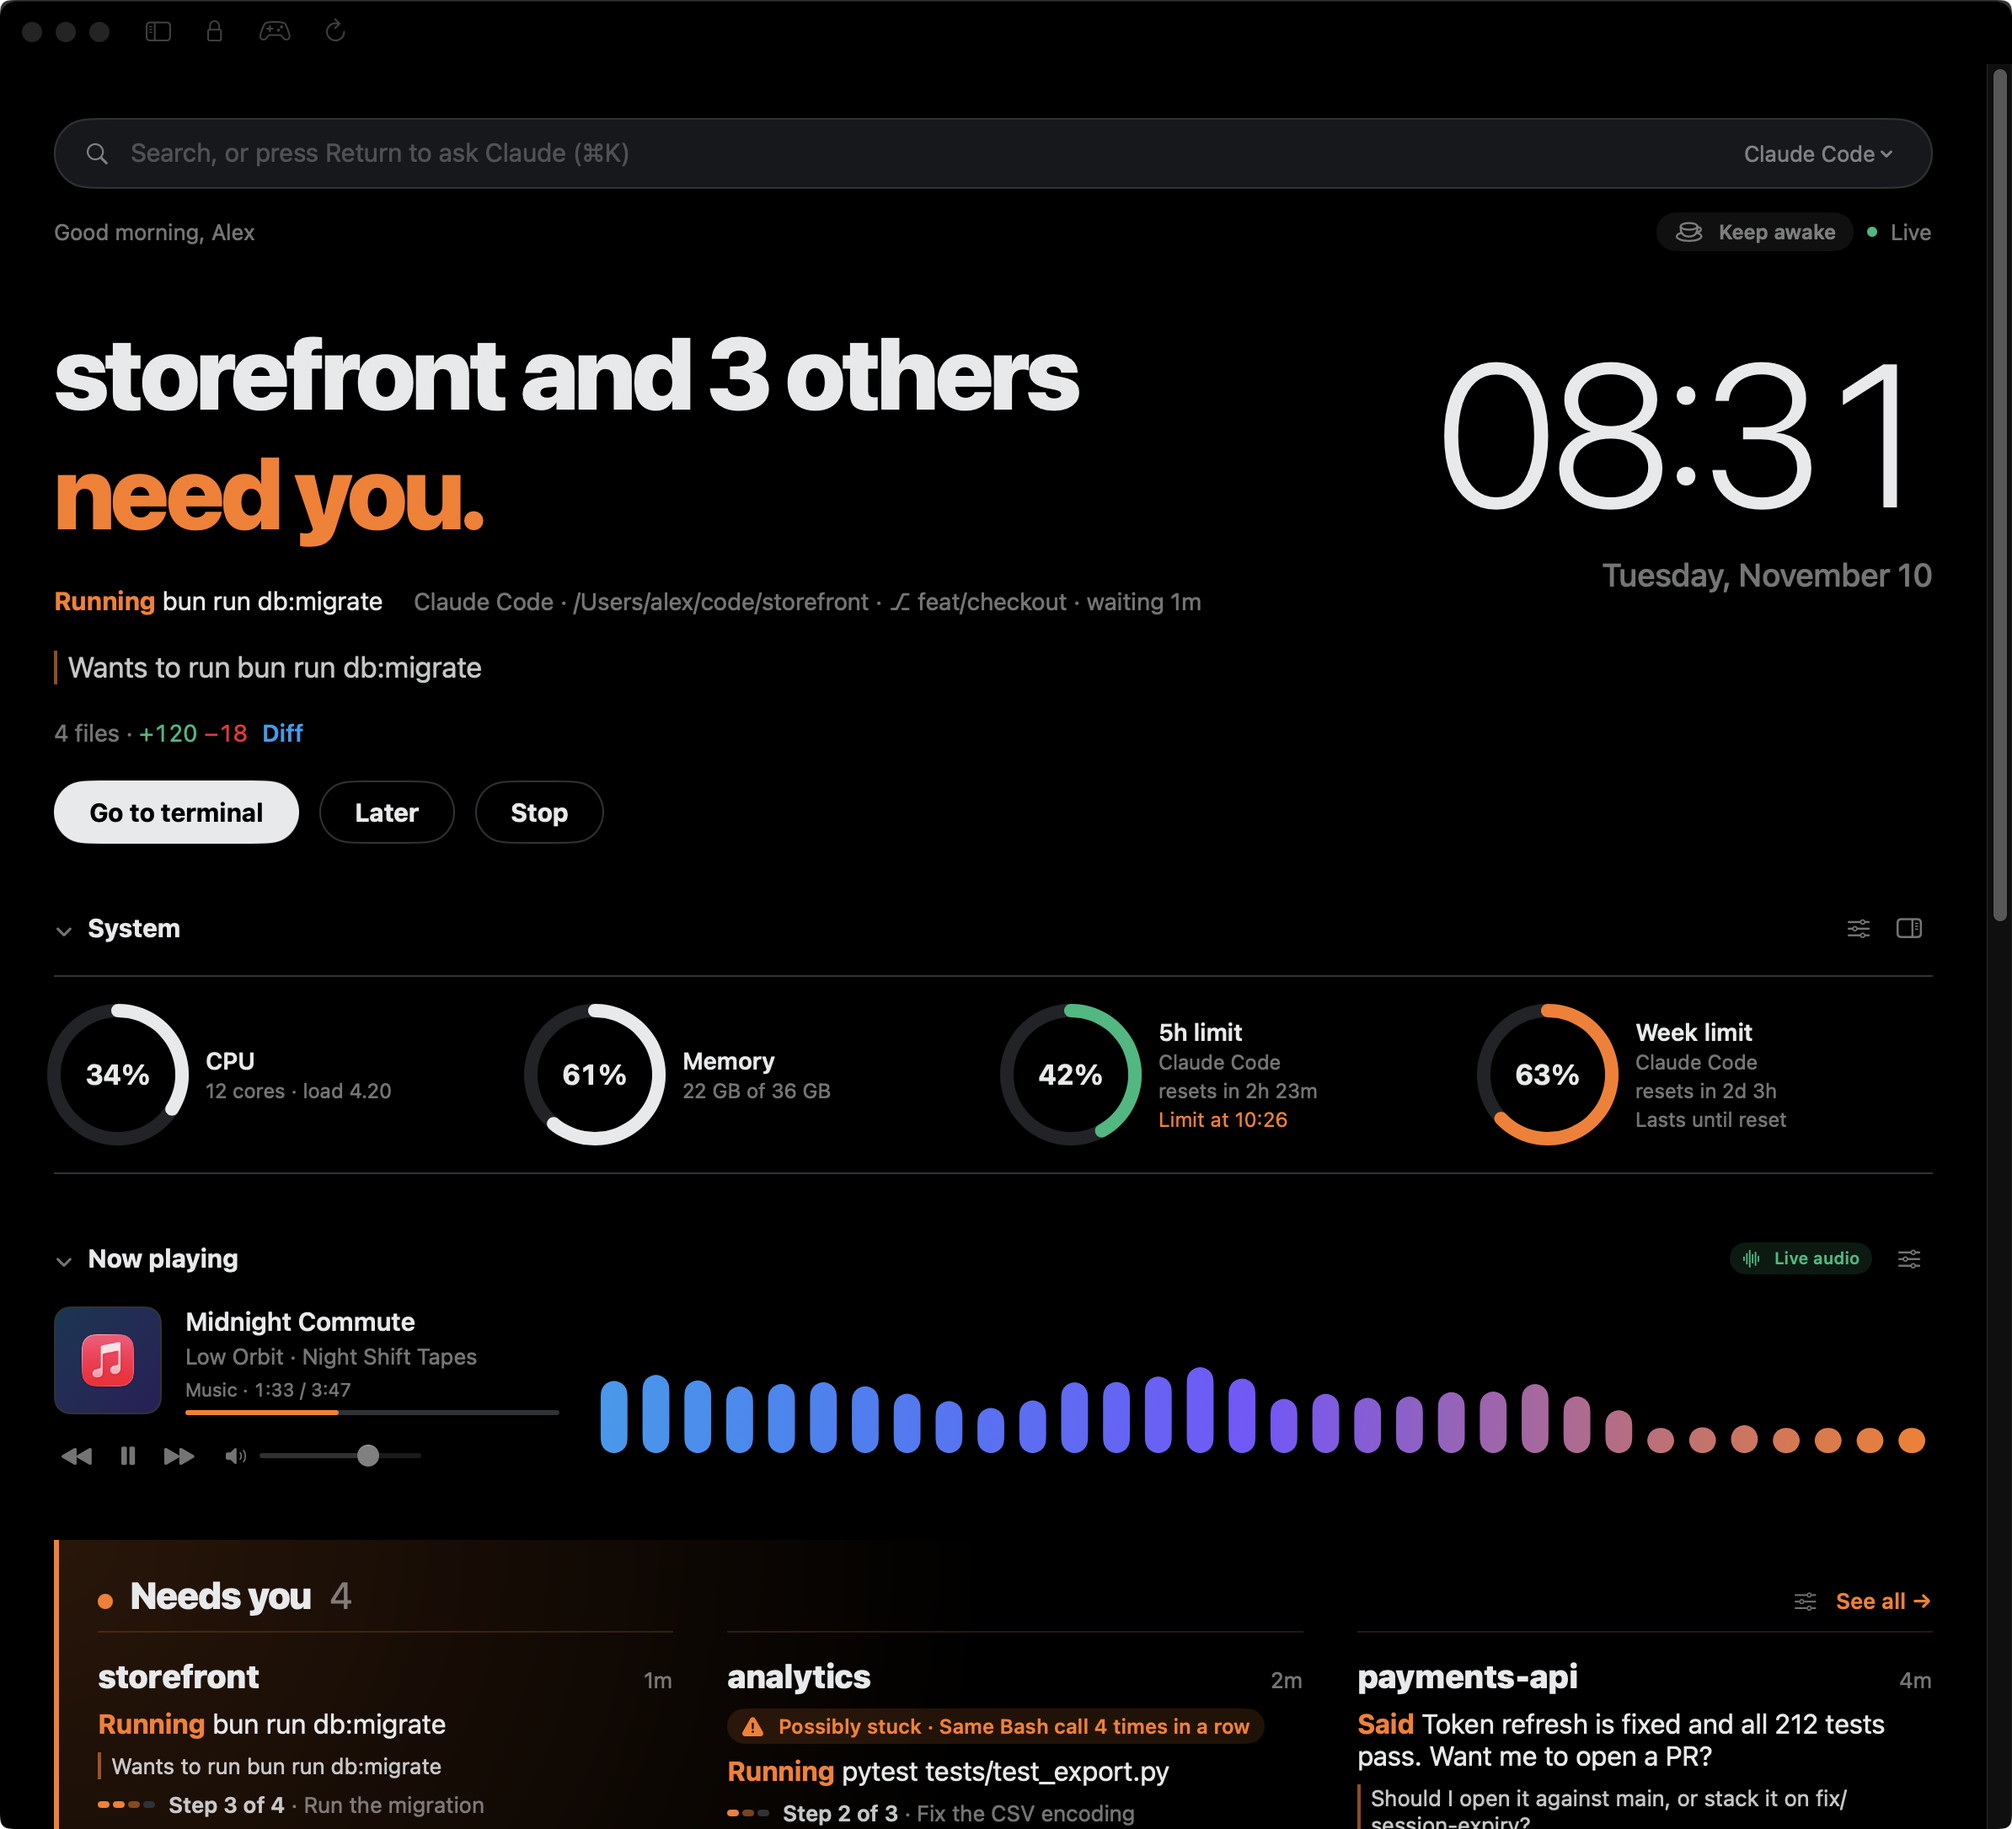
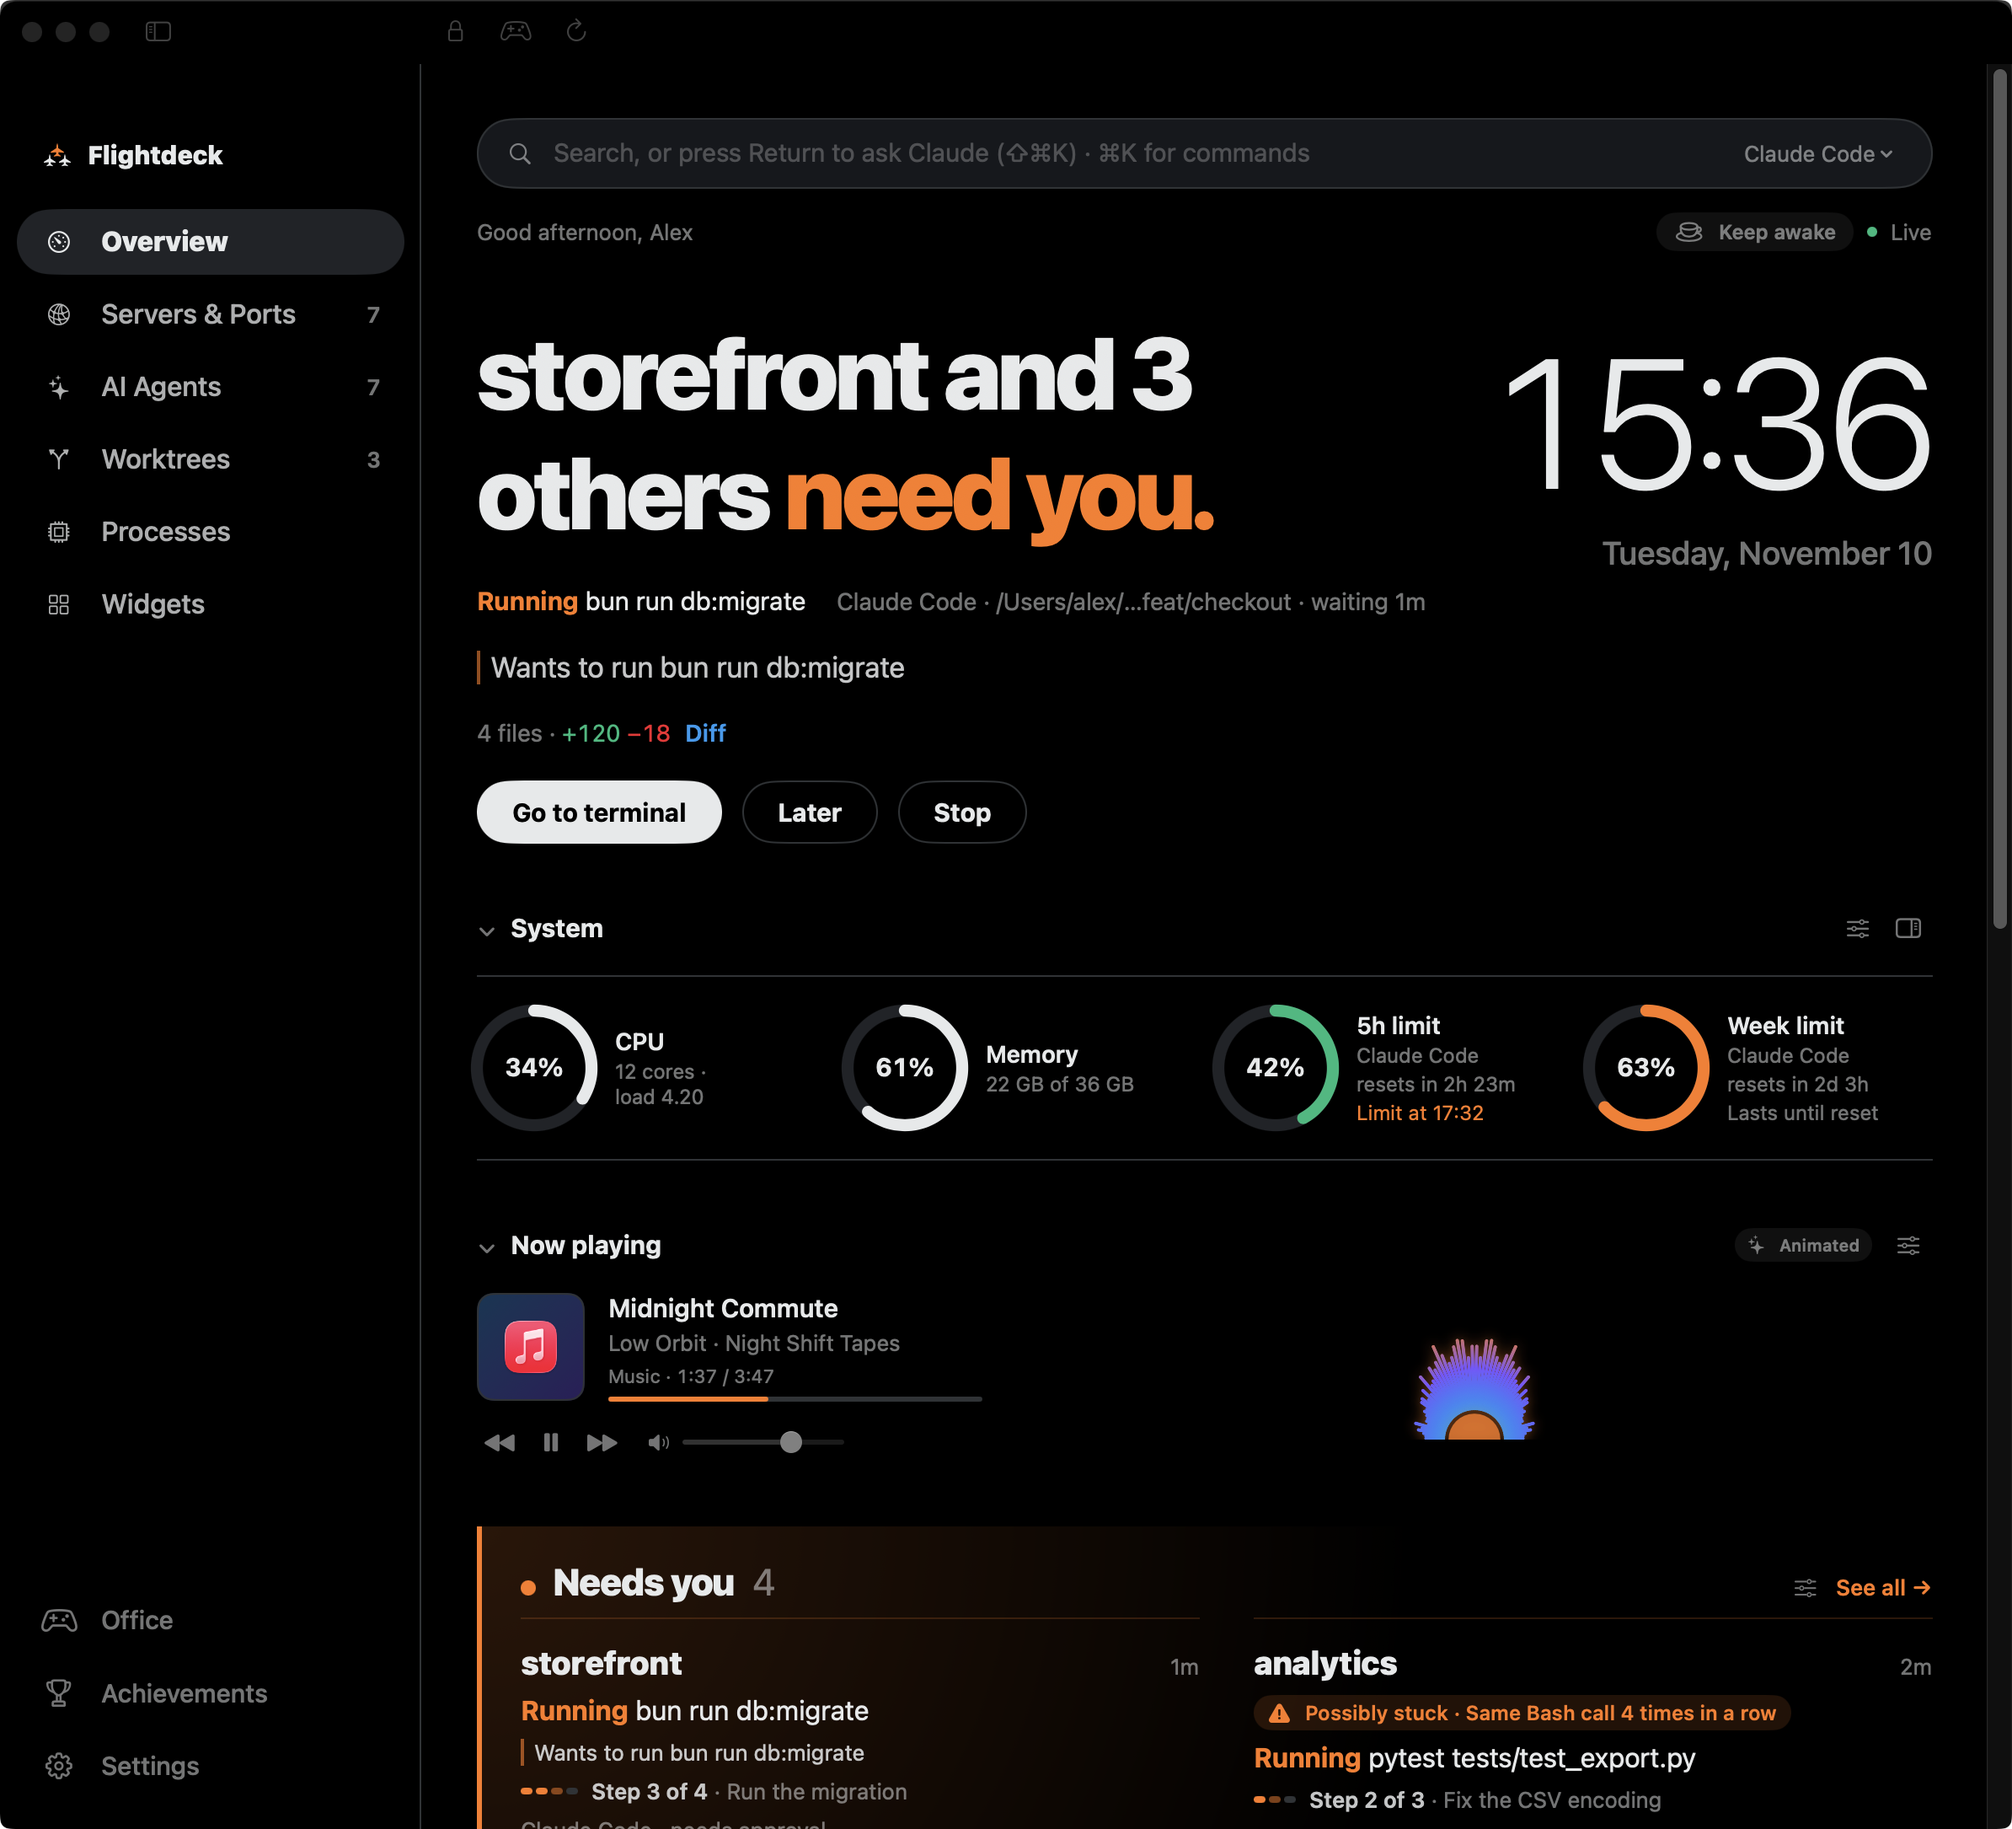
Show the ⇧⌘K and ⌘K shortcuts and add achievements and night office to the site
- Overview search hint and terminal footer name ⌘K for commands and ⇧⌘K for Ask Claude
- Site and README get the Achievements page and the office after dark, and a fresh overview shot
- FLIGHTDECK_PAGE=settings opens the demo on Settings

diff --git a/site/app/page.tsx b/site/app/page.tsx
@@ -68,6 +68,18 @@ const FEATURE_ROWS = [
     image: { src: "/screenshots/office.png", alt: "Office party with a dance floor, lasers, speaker stacks and the jukebox pads", width: 1194, height: 760 },
   },
   {
+    label: "After dark",
+    title: "The office keeps your hours.",
+    body: "Windows along the outer walls follow the time of day, from daylight through sunset to a starry night. After dark the rooms dim and every desk with an agent keeps its lamp on. Type a city in Settings and the windows show its rain, snow or clouds.",
+    image: { src: "/screenshots/office-night.png", alt: "The office at night with dimmed rooms, starry windows and desk lamps on", width: 1194, height: 1085 },
+  },
+  {
+    label: "Achievements",
+    title: "Unlock 59 achievements.",
+    body: "Agent hours, agents working at once, streaks, night-owl sessions, cleaned-up worktrees, tracks heard, office raves and more. The Achievements page lists every one with your progress, and each unlock gets a card and a notification.",
+    image: { src: "/screenshots/achievements.png", alt: "Achievements page with unlocked gold badges and progress on locked ones", width: 1194, height: 1085 },
+  },
+  {
     label: "Now playing",
     title: "Music in your theme.",
     body: "What's playing in any player, with a visualiser in your theme's colours. The adjust menu switches between Minimal and Expanded, ten visualiser styles and six palettes, plus an optional background that pulses to the music in ten styles, colours from the cover art and accents that flash on the beat. A mini player sits in the menu bar panel. Live audio levels are opt-in; otherwise the bars follow play and pause.",

diff --git a/Sources/FlightdeckApp/Views/Dashboard/Overview/OverviewHeader.swift b/Sources/FlightdeckApp/Views/Dashboard/Overview/OverviewHeader.swift
@@ -12,7 +12,7 @@ struct OverviewHeader: View {
         VStack(alignment: .leading, spacing: 14) {
             HStack(spacing: 12) {
                 Image(systemName: "magnifyingglass").foregroundStyle(theme.muted)
-                TextField("Search, or press Return to ask Claude (⌘K)", text: $searchText)
+                TextField("Search, or press Return to ask Claude (⇧⌘K) · ⌘K for commands", text: $searchText)
                     .textFieldStyle(.plain)
                     .font(.system(size: 15))
                     .onSubmit(askClaude)

diff --git a/Sources/FlightdeckApp/Views/Dashboard/Concepts/ConceptMastheads.swift b/Sources/FlightdeckApp/Views/Dashboard/Concepts/ConceptMastheads.swift
@@ -26,7 +26,8 @@ struct LayoutFooter: View {
     var body: some View {
         if layout == .terminal {
             HStack(spacing: 18) {
-                hint("⌘K", "ask claude")
+                hint("⌘K", "commands")
+                hint("⇧⌘K", "ask claude")
                 hint("⌘,", "settings")
                 hint("click", "open")
                 Spacer()

diff --git a/docs/architecture.md b/docs/architecture.md
@@ -24,7 +24,7 @@ One Swift package with three targets.
 
 - **Store/** — `MonitorEngine` owns the collectors and blocks; `MonitorStore` (`@Observable`, main actor) polls it off the main thread: system every 2s, ports and agents every 5s, usage every 60s, widgets every 5s, project cache every 30s.
 - **Settings/** — `AppSettings`, persisted to UserDefaults.
-- **Ask/** — `ClaudeAsker` answers the dashboard's questions: `AskContext` writes a `CLAUDE.md` guide and a live `state.md` to `~/Library/Application Support/Flightdeck/Ask/`, then it runs `claude -p` there with only Read, Grep and Glob allowed (`--continue` for follow-ups). `AskPalette` shows the answer over the dashboard window; Return in the overview search bar or Edit › Ask Claude… (⌘K) opens it.
+- **Ask/** — `ClaudeAsker` answers the dashboard's questions: `AskContext` writes a `CLAUDE.md` guide and a live `state.md` to `~/Library/Application Support/Flightdeck/Ask/`, then it runs `claude -p` there with only Read, Grep and Glob allowed (`--continue` for follow-ups). `AskPalette` shows the answer over the dashboard window; Return in the overview search bar, the command palette's Ask row or Edit › Ask Claude… (⇧⌘K) opens it. `Views/Palette/` holds the ⌘K command palette.
 - **Integrations/** — `StatusPublisher` writes `StatusReport` (MonitorCore **Status/**) to `status.json` after each agents and ports poll, only when it changed (system readings and agents' last activity aside) or once a minute, otherwise touching it so readers can spot a stopped app; it also fires the optional SketchyBar event. `CommandLineTool` links the bundled command into the user's PATH.
 - **Updates/** — `AppUpdater` wraps Sparkle's `SPUStandardUpdaterController` and publishes whether a check can start. It only starts inside the bundled app, which carries `SUFeedURL` and `SUPublicEDKey`; Sparkle keeps the automatic-check setting in its own user defaults. The release workflow publishes the signed appcast to the `update-feed` release.
 - **Views/** — `MenuBar/` (label and the 380pt popover), `Dashboard/` (`NavigationSplitView` with Overview, Servers & Ports, AI Agents, Processes, Widgets; every page is a `PageCanvas` of sections on a `SectionGrid`, arranged by the current theme's `DashboardLayout` or the user's custom version of it; the sidebar and menu bar panel are styled by that layout too), `Settings/`, and shared `Components/`.

diff --git a/README.md b/README.md
@@ -53,6 +53,10 @@ brew install --cask magnuspladsen/tap/flightdeck
 |---|---|
 | <img src="docs/screenshots/office.png" alt="Office party: dimmed rooms, dance floor, lasers, speaker stacks and the jukebox pads" width="420"> | <img src="docs/screenshots/now-playing.png" alt="Now playing with player controls and the adjust menu" width="420"> |
 
+| The office after dark | Achievements |
+|---|---|
+| <img src="docs/screenshots/office-night.png" alt="The office at night with starry windows and desk lamps on" width="420"> | <img src="docs/screenshots/achievements.png" alt="Achievements page" width="420"> |
+
 Screenshots use demo data: start the app with `FLIGHTDECK_DEMO=1` to see the same.
 
 ## Features
